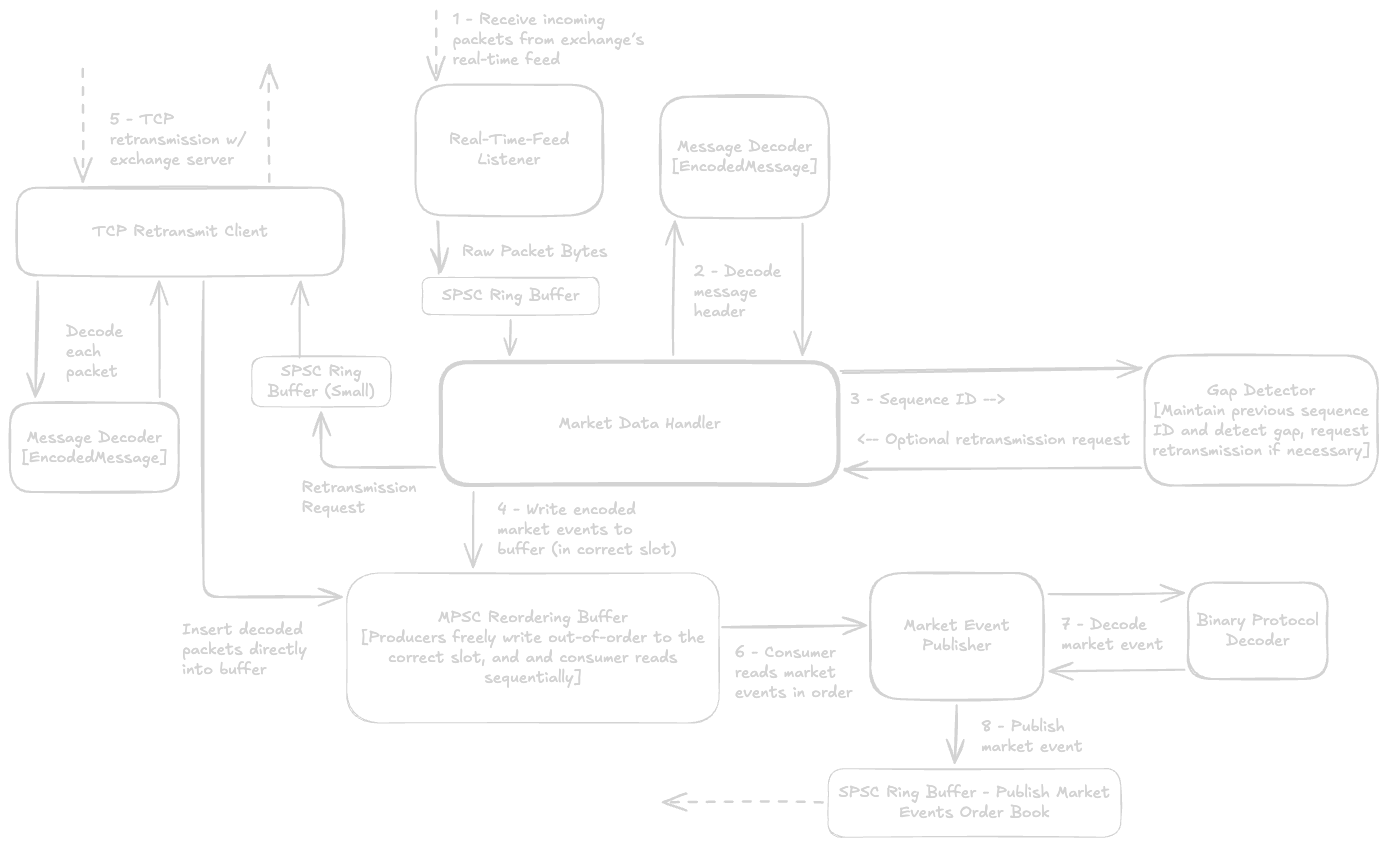
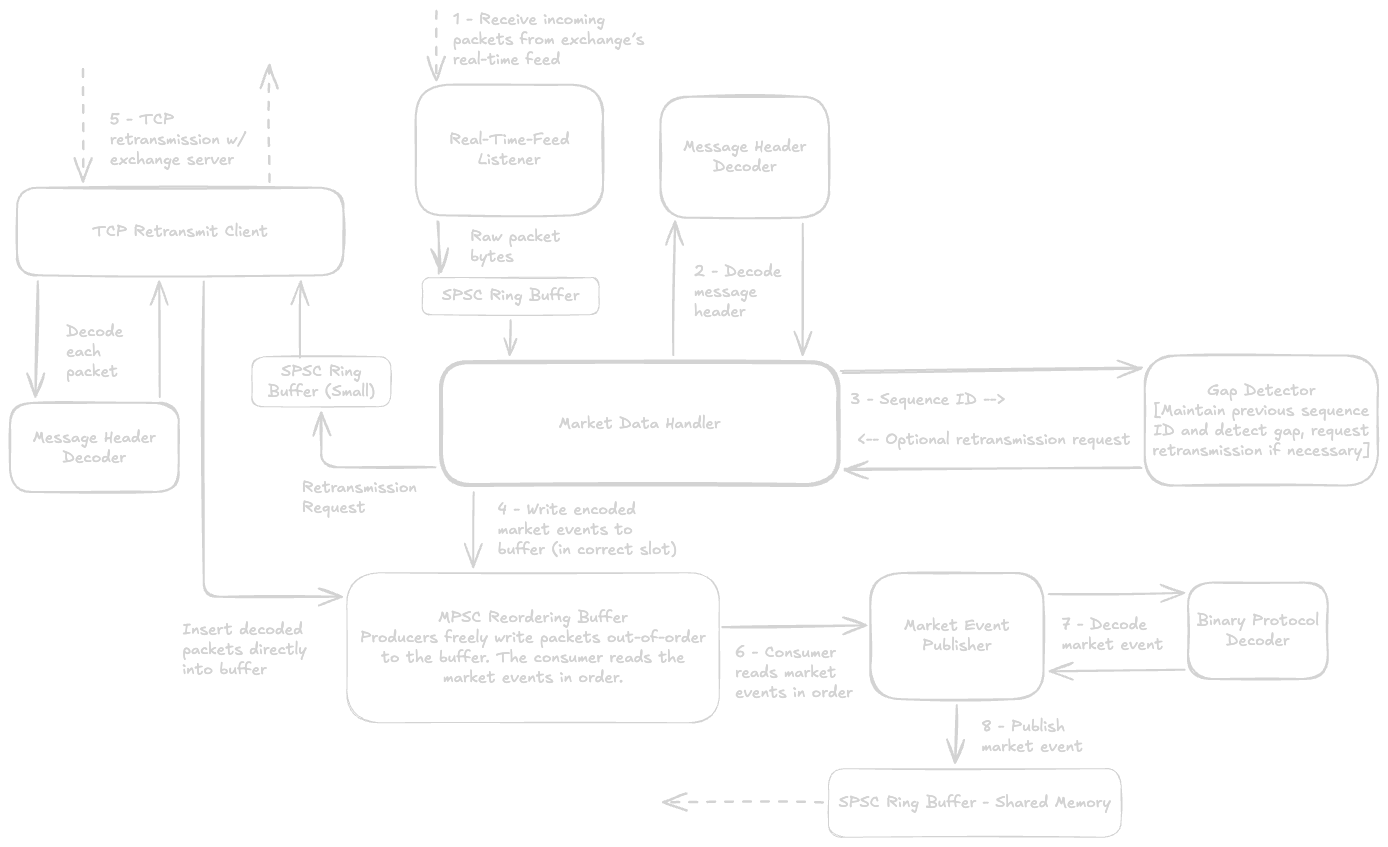
Fix infinite loop in hash map, update README
Update README with market data handler info
Fix infinite loop when probing a fullly tombstoned hash map
Update conifg settings

diff --git a/includes/order-book/closed-hash-map.hpp b/includes/order-book/closed-hash-map.hpp
@@ -54,15 +54,17 @@ private:
 
     Index probe_new(const Key& key) const {
         Index idx = hash(key);
-        while(occupied[idx] == SlotStatus::Occupied) {
+        for(size_t probes = 0; probes < CAPACITY; ++probes) {
+            if(occupied[idx] != SlotStatus::Occupied) return idx;
             idx = (idx + 1) & MASK;
         }
-        return idx;
+        return NULL_INDEX;
     }
 
     Index probe_existing(const Key& key) const {
         Index idx = hash(key);
-        while(occupied[idx] != SlotStatus::Empty) {
+        for(size_t probes = 0; probes < CAPACITY; ++probes) {
+            if(occupied[idx] == SlotStatus::Empty) return NULL_INDEX;
             if(occupied[idx] == SlotStatus::Occupied && slots[idx].key == key) {
                 return idx;
             }
@@ -75,19 +77,23 @@ private:
     Index probe_existing_and_save_tombstone(const Key& key) {
         Index idx = hash(key);
         bool is_saved = false;
+        saved = NULL_INDEX;
 
-        while(occupied[idx] != SlotStatus::Empty) {
+        for(size_t probes = 0; probes < CAPACITY; ++probes) {
+            if(occupied[idx] == SlotStatus::Empty) {
+                if(!is_saved) saved = idx;
+                return NULL_INDEX;
+            }
             if(!is_saved && occupied[idx] == SlotStatus::Tombstone) {
                 saved = idx;
                 is_saved = true;
             }
-            else if(slots[idx].key == key) {
+            else if(occupied[idx] == SlotStatus::Occupied && slots[idx].key == key) {
                 return idx;
             }
             idx = (idx + 1) & MASK;
         }
 
-        if(!is_saved) saved = idx;
         return NULL_INDEX;
     }
 
@@ -110,6 +116,7 @@ public:
 template<Hashable Key, typename Value, size_t CAPACITY>
 void ClosedHashMap<Key, Value, CAPACITY>::add(const Key& key, Value value) {
     Index slot_index = probe_new(key);
+    assert(slot_index != NULL_INDEX && "ClosedHashMap is full");
     slots[slot_index] = KeyValuePair(key, std::move(value));
     occupied[slot_index] = SlotStatus::Occupied;
 }

diff --git a/includes/config.hpp b/includes/config.hpp
@@ -8,8 +8,8 @@
 
 namespace config {
 	// Order Book (BookState) Configuration
-	inline constexpr size_t MAX_PRICE_LEVELS = 1 << 10;
-    inline constexpr size_t MAX_CONCURRENT_ORDERS = 1 << 14;
+	inline constexpr size_t MAX_PRICE_LEVELS = 1 << 13;
+    inline constexpr size_t MAX_CONCURRENT_ORDERS = 1 << 15;
 
 	// Set to 128 bytes on Apple Silicon to avoid false sharing on performance cores,
 	// and std::hardware_destructive_interference_size on other architecture
@@ -67,9 +67,9 @@ namespace exchange::config {
 	inline constexpr size_t 	KQUEUE_TIMEOUT_NS 			= 100'000'000;
 
 	// Order Generator Configuration
-	inline constexpr double BUY_PROBABILITY 		= 0.4;
-	inline constexpr double CANCEL_PROBABILITY 		= 0.2;
-	inline constexpr double SELL_PROBABILITY 		= 0.4;
+	inline constexpr double BUY_PROBABILITY 		= 0.3;
+	inline constexpr double SELL_PROBABILITY 		= 0.3;
+	inline constexpr double CANCEL_PROBABILITY 		= 0.4;
 
 	/* Probability of an order being highly aggressive.
 	 * Highly aggressive orders cross the spread with larger price variance and larger quantity.
@@ -101,9 +101,9 @@ namespace exchange::config {
 	 * lazily removes filled orders. If reached, the generator will clear a large number of orders 
 	 * (either orders that were already filled or by cancelling currently resting orders) 
 	 * when it reaches the MAX_ACTIVE_ORDERS limit, so that it can continue generating new orders. */
-	inline constexpr size_t MAX_ACTIVE_ORDERS = 1 << 14;
+	inline constexpr size_t MAX_ACTIVE_ORDERS = 1 << 13;
 	// When the active order count reaches MAX_ACTIVE_ORDERS, clear until the active order count reaches PURGE_UNTIL_WHEN_FULL
-	inline constexpr size_t PURGE_UNTIL_WHEN_FULL = 1 << 13;
+	inline constexpr size_t PURGE_UNTIL_WHEN_FULL = 1 << 12;
 	// Number of orders to generate when the active order count reaches 0
 	inline constexpr size_t POPULATE_WHEN_EMPTY = 1 << 8; 
 }

diff --git a/includes/order-book/book-state.hpp b/includes/order-book/book-state.hpp
@@ -40,8 +40,8 @@ private:
     };
 
     OrderPool<config::MAX_CONCURRENT_ORDERS> order_pool;
-    ClosedHashMap<Order::Price, PriceLevel, config::MAX_PRICE_LEVELS> price_levels;
-    ClosedHashMap<Order::ID, RestingOrder::Index, config::MAX_CONCURRENT_ORDERS> order_map;
+    ClosedHashMap<Order::Price, PriceLevel, config::MAX_PRICE_LEVELS * 2> price_levels;
+    ClosedHashMap<Order::ID, RestingOrder::Index, config::MAX_CONCURRENT_ORDERS * 2> order_map;
     
     std::set<Order::Price, std::greater<>> bids;
     std::set<Order::Price> offers;

diff --git a/includes/exchange/exchange-simulator.hpp b/includes/exchange/exchange-simulator.hpp
@@ -2,7 +2,6 @@
 #define EXCHANGE_SIMULATOR_HPP
 
 #include "protocol.hpp"
-#include "exchange-errors.hpp"
 
 #include "order-generator.hpp"
 #include "clob.hpp"
@@ -16,7 +15,6 @@
 #include "tcp-retransmit.hpp"
 
 #include <stop_token>
-#include <string_view>
 
 
 class exchange::ExchangeSimulator {

diff --git a/src/utils/network-utils.cpp b/src/utils/network-utils.cpp
@@ -7,8 +7,6 @@
 #include <arpa/inet.h>
 #include <cerrno>
 
-#include <print>
-
 namespace network {
 bool set_socket_nonblocking(SocketFD socket_fd) noexcept {
 	const int flags = fcntl(socket_fd, F_GETFL, 0);

diff --git a/includes/exchange/order-generator.hpp b/includes/exchange/order-generator.hpp
@@ -6,7 +6,6 @@
 #include "random-container.hpp"
 #include "config.hpp"
 #include "order.hpp"
-#include "exchange-errors.hpp"
 
 #include <random>
 #include <stop_token>

diff --git a/includes/market-data-handler/market-data-handler.hpp b/includes/market-data-handler/market-data-handler.hpp
@@ -9,7 +9,6 @@
 #include "publisher.hpp"
 
 #include <stop_token>
-#include <string_view>
 
 namespace handler {
 class MarketDataHandler {

diff --git a/includes/market-data-handler/tcp-client.hpp b/includes/market-data-handler/tcp-client.hpp
@@ -8,7 +8,6 @@
 
 #include <expected>
 #include <stop_token>
-#include <string_view>
 
 namespace handler {
 class RetransmitListener {

diff --git a/README.md b/README.md
@@ -1,16 +1,22 @@
-# hft-architecture
+# C++ Low-Latency HFT Architecture
 A complete low-latency algorithmic trading pipeline, consisting of an exchange simulator, market data handler, limit order book, passive market maker strategy process with pre-trade risk checks, and a paper OMS.
 
 ## Exchange Simulator
 The exchange simulator generates and publishes market events over UDP multicast, running on three separate threads:
-1. A configurable __synthetic order generator__ publishes order requests to the exchange's __matching engine__, which publishes the corresponding market events to a __lock-free SPSC ring buffer__.
+1. A configurable __synthetic order generator__ publishes order requests to the exchange's __matching engine__, which publishes the corresponding market events to a lock-free SPSC ring buffer.
 2. The exchange simulator's __orchestrator__ reads these market events, passes them to a __sequencer__ which encodes the messages into a custom __binary protocol__, stamps a sequencer number and header, and serializes the entire message. The orchestrator caches this encoded message on a thread-safe circular cache, and forwards it to the __UDP broadcaster__ to send over UDP multicast.
 3. The asynchronous, I/O-multiplexed __TCP retransmit server__ handles client connections, retreives and corresponding cached packets, and transmits them over the TCP connection.
 
 ![Exchange Diagram](diagrams/exchange-simulator.png)
 
 ## Market Data Handler
-Currently working on this.
+The market data handler retreives and processes market events from the exchange, running across four threads:
+1. A __real-time feed listener__ listens for packets broadcast by the exchange over UDP multicast, and directly places the packets from the kernel's buffer into a lock-free SPSC ring buffer.
+2. The __market data handler__ reads these packets, decodes their headers, passes them to a __gap detector__, and writes a retransmit request to a lock-free SPSC ring buffer if necessary. It then immediately writes the packet to the __reorder buffer__.
+3. The __TCP retransmit client__ spins on the lock-free SPSC ring buffer until it receives a request, then forwards this request to the exchange's retransmit server, receives and decodes the packet headers, and places them directly in the reorder buffer.
+4. The __market event publisher__ spins on the reorder buffer, waiting for the next packet's data. When available, it pulls this packet's data from the reorder buffer, decodes the market event, and pushes the market event to a lock-free SPSC ring buffer.
+
+![Market Data Handler Diagram](diagrams/market-data-handler.png)
 
 ## Run and Execute
 > [!WARNING]
@@ -20,5 +26,5 @@ Currently working on this.
 A Makefile has been provided for convenience:
 1. Clone the repo.
 2. Edit `includes/config.hpp` as desired. By default, `LOGGING` is enabled. You may need to edit the UDP MCAST interface or other network details.
-3. Run `make bin/exchange` run `./bin/exchange`
+3. Run `make bin/exchange-market-data` run `./bin/exchange-market-data`. Alternatively, run `./bin/exchange` to start the exchange, and `./bin/market-handler` to separately start the market data handler.
 4. Press `CTRL + C` to stop.
